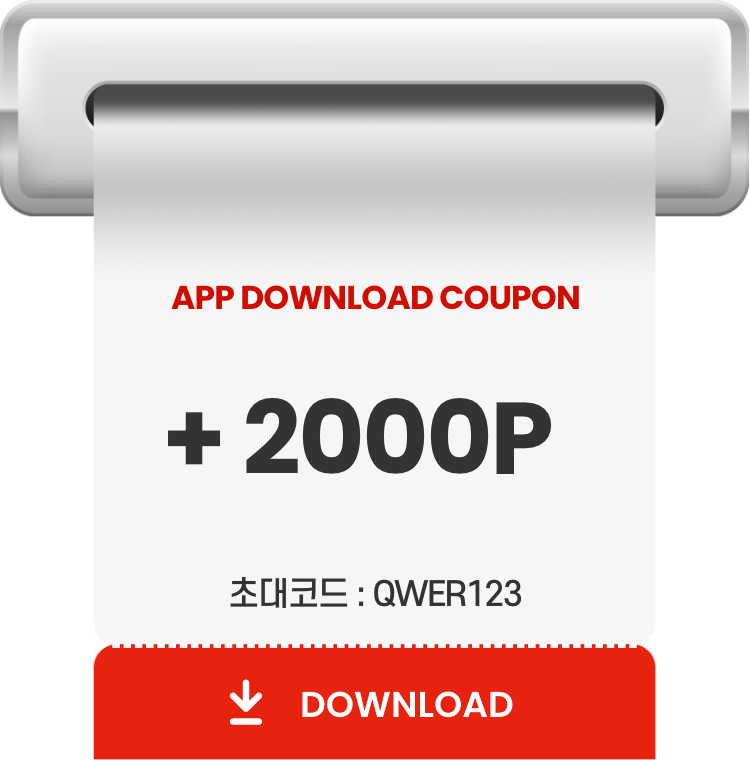
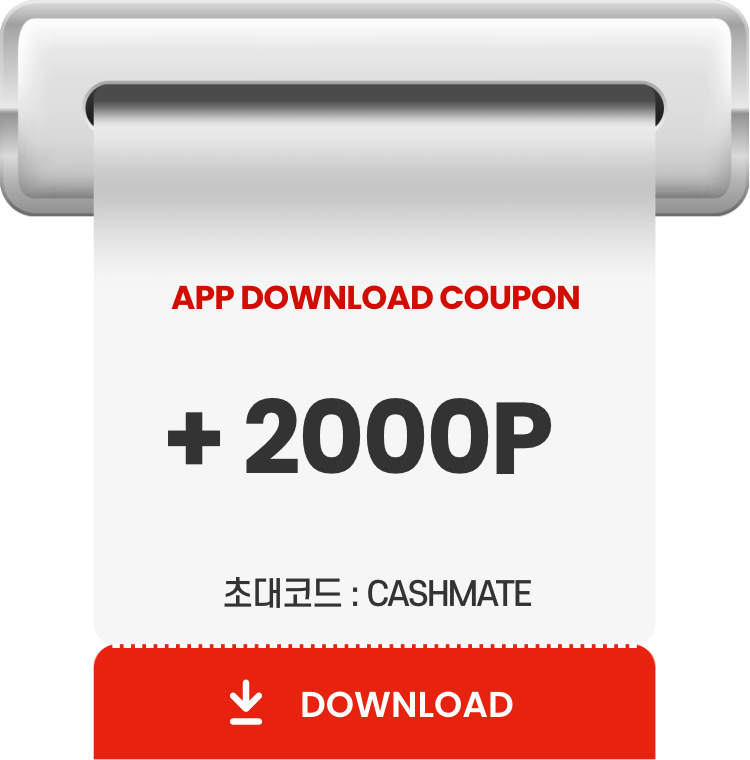
update

Changed region(s): [[0.3067, 0.7566, 0.7053, 0.8171]]

diff --git a/misc/searchAD/index.html b/misc/searchAD/index.html
@@ -2,12 +2,11 @@
 <html lang="en">
 <head>
   <meta charset="utf-8">
-  <title>캐시메이트 소개 - 검색광고 페이지</title>
-  <meta http-equiv="X-UA-Compatible" content="IE=edge">
-  <meta name="viewport" content="width=device-width, initial-scale=1.0">
-  <meta name="mobile-web-app-capable" content="yes">
+  <meta http-equiv="X-UA-Compatible" content="IE=edge,chrome=1">		
   <meta name="apple-mobile-web-app-capable" content="yes">
-  <meta name="apple-mobile-web-app-status-bar-style" content="black">
+  <meta name="apple-mobile-web-app-status-bar-style" content="white">
+  <meta name="viewport" content="width=device-width, initial-scale=1.0, user-scalable=no">
+  <title>캐시메이트 소개 - 검색광고 페이지</title>
   <link rel="stylesheet" href="./resource/css/jquery.fullpage.min.css"/>  
   <link rel="stylesheet" href="./resource/js/slick/slick.css"/>
   <link rel="stylesheet" href="./resource/css/style.css">
@@ -125,12 +124,12 @@
               <span class="text_block bold">쿠폰 혜택!</span>                      
             </h1>   
             <div class="content_box">
-              <a href="#layer_popup" class="img_box code_clipboard btn_coupon" data-clipboard-text="QWER123">
+              <a href="#layer_popup" class="img_box code_clipboard btn_coupon" data-clipboard-text="CASHMATE">
                 <img src="./resource/images/img_coupon.png" alt="">
               </a>
             </div>
             <div class="guide_box">
-              <div class="text_guide">해당 포인트 쿠폰은 2023년 12월 31일까지 제공 됩니다.</div>
+              <div class="text_guide">해당 포인트 쿠폰은 2024년 01월 31일까지 제공 됩니다.</div>
               <div class="text_guide">포인트 쿠폰의 초대코드를 앱에 입력하셔야 혜택이 적용 됩니다.</div>
             </div>          
           </article>
@@ -146,7 +145,7 @@
                 <div class="popup_content">
                   <div class="content_box">
                     <h2 class="content_heading">
-                      <div class="code_box font_num">QWER123</div>
+                      <div class="code_box font_num">CASHMATE</div>
                       <div class="guide_text">
                           초대코드가 복사 되었습니다.
                       </div>
@@ -178,6 +177,7 @@
 <script src="./resource/js/script.js"></script>
 
 <script>
+
 (() => {
   const target = document.querySelector("section.section_02 .content");
   
